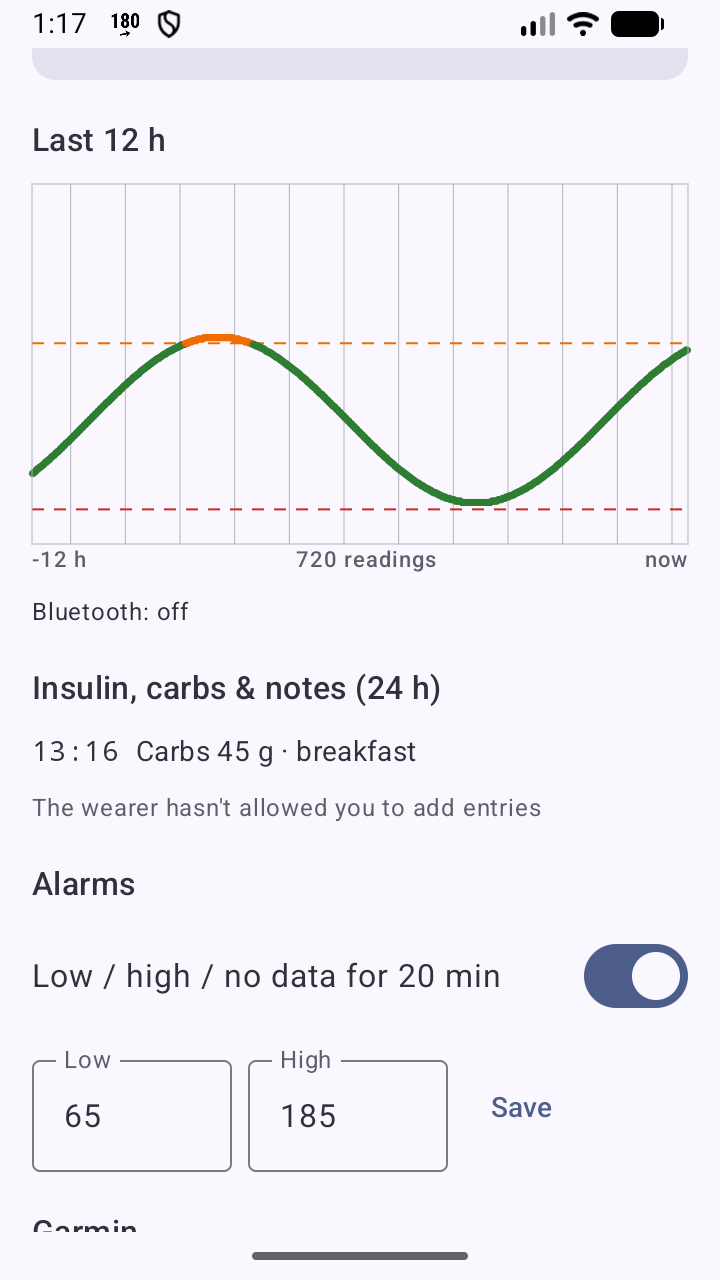
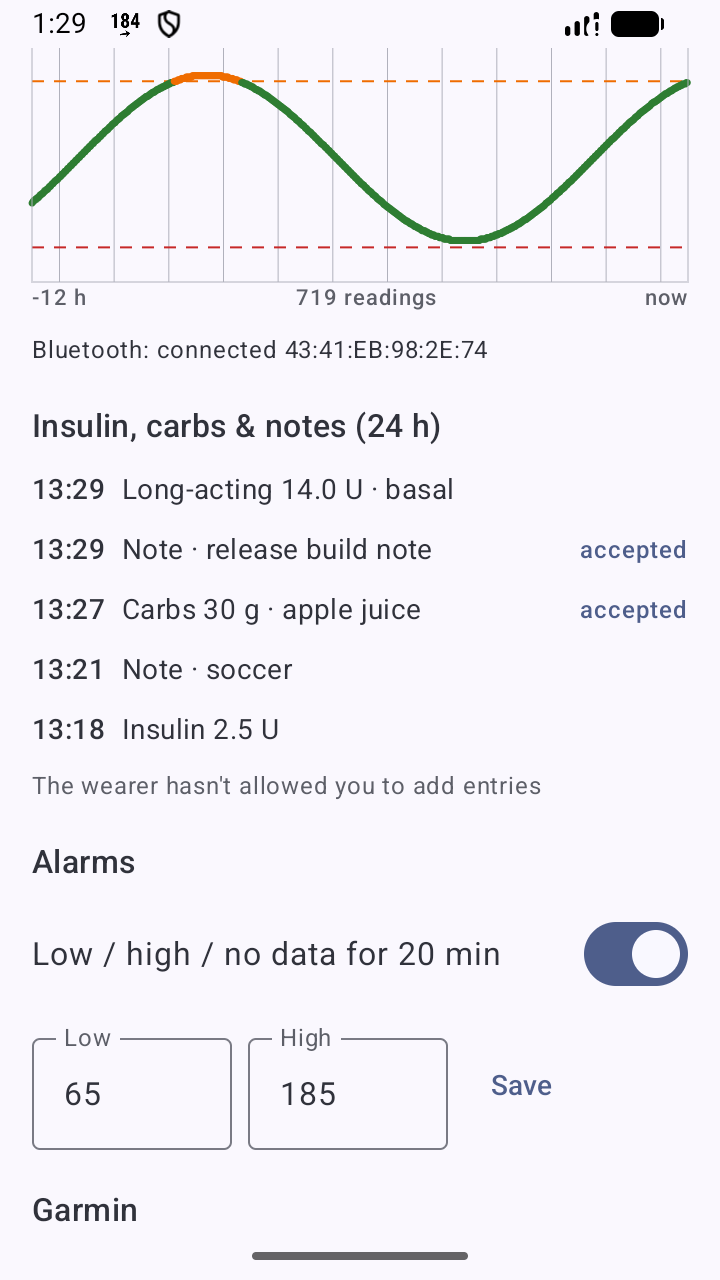
Treatments for followers: evidence (n1-*), SPEC §5 marked built, PROTOCOL-v2 note refined; follower list time font
Claude-Session: https://claude.ai/code/session_01BoLYPHBrTv4BP9xP6z9GPH

diff --git a/spikes/nostr/PROTOCOL-v2.md b/spikes/nostr/PROTOCOL-v2.md
@@ -69,8 +69,9 @@ entries, deletes.
   new `G`), when a **new follower is approved**, and at least **weekly** (keeps the 30-day expiry rolling).
 - BLE: every treatment event is pushed to subscribed centrals like any publish; the `HELLO` backlog also carries the
   treatment events of the last 30 days (newest 200), after the chunks and before live.
-- Writer events stay accepted only if the author ∈ roster `writers` ∧ active follower (docs/07), then merged (§1)
-  into the log → which re-publishes them signed by `D` (**the echo**).
+- The owner accepts a writer event only if the author ∈ roster `writers` ∧ active follower (docs/07), merges it (§1)
+  into the log, and so re-publishes it signed by `D` (**the echo**; a BLE writer event is also forwarded as-is to the
+  other BLE centrals).
 
 **Followers** (Android + Mac) receive treatments:
 - `REQ {"kinds":[30078], "#c":[H("cgm2:treatments:"+sid)], "authors": roster.devices ∪ roster.writers,
@@ -88,6 +89,10 @@ entries, deletes.
   event for the same `id` signed by a **roster device key** arrives with `u ≥` the sent `u` (the echo). No echo after
   ~2 min ⇒ shown as *not accepted yet* (keeps listening; the owner may be offline). There is no explicit NACK:
   a rejected entry simply never echoes.
+
+Verified on Android (two emulators, 2026-10-16, `spikes/showcase-android/evidence/n1-*`): wearer entries and deletes
+reach the follower over relays and over BLE with the follower offline; writer entry accepted (echo) in < 5 s over
+relays, ≈ 0.1 s over BLE, and after 3 min when the wearer's relays were off (*not accepted yet* → *accepted*).
 
 ## Invite link / QR (no secrets)
 

diff --git a/spikes/libreview/SPEC.md b/spikes/libreview/SPEC.md
@@ -145,7 +145,15 @@ retraction, else empty.
 Every device appends each uploaded treatment row (`recordNumber`, `id`, `k`, `t`, deleted?) to a local ledger.
 `lv.py cleanup` (and the apps' "delete all spike treatments") re-sends every ledger row as deleted.
 
-## 5. Treatments over Nostr — proposal (fits investigation 03's [PROTOCOL.md](../nostr/PROTOCOL.md) and its v2 key design in investigation 06; not built)
+## 5. Treatments over Nostr (fits investigation 03's [PROTOCOL.md](../nostr/PROTOCOL.md) and its v2 key design in investigation 06)
+
+**Built** (2026-10-16, Sukrara for Android, both roles; Mac in parallel): writer → owner (investigation 07) and
+owner → followers. Who publishes what, the follower filter and "echo = accepted" are in
+[PROTOCOL-v2 "Treatments"](../nostr/PROTOCOL-v2.md). Differences from the proposal below: the owner publishes its
+whole merged log with its **device key** `D` (a roster `devices` key, not a `writers` key); followers subscribe to
+`authors = roster.devices ∪ roster.writers`, `since` now − 30 d (no cursor); the owner also republishes when a
+follower is approved and weekly. Not built: the Mac's own `W` in `writers` (the Mac's entries reach followers through
+the phone's log, signed by `D`).
 
 Glucose stays as 03/07 define it. Treatments differ in one way that matters: **several devices create them**
 (phone, Mac, later a parent's phone), so they can't all be "the uploader". Terms from 07's PROTOCOL v2 (draft,
